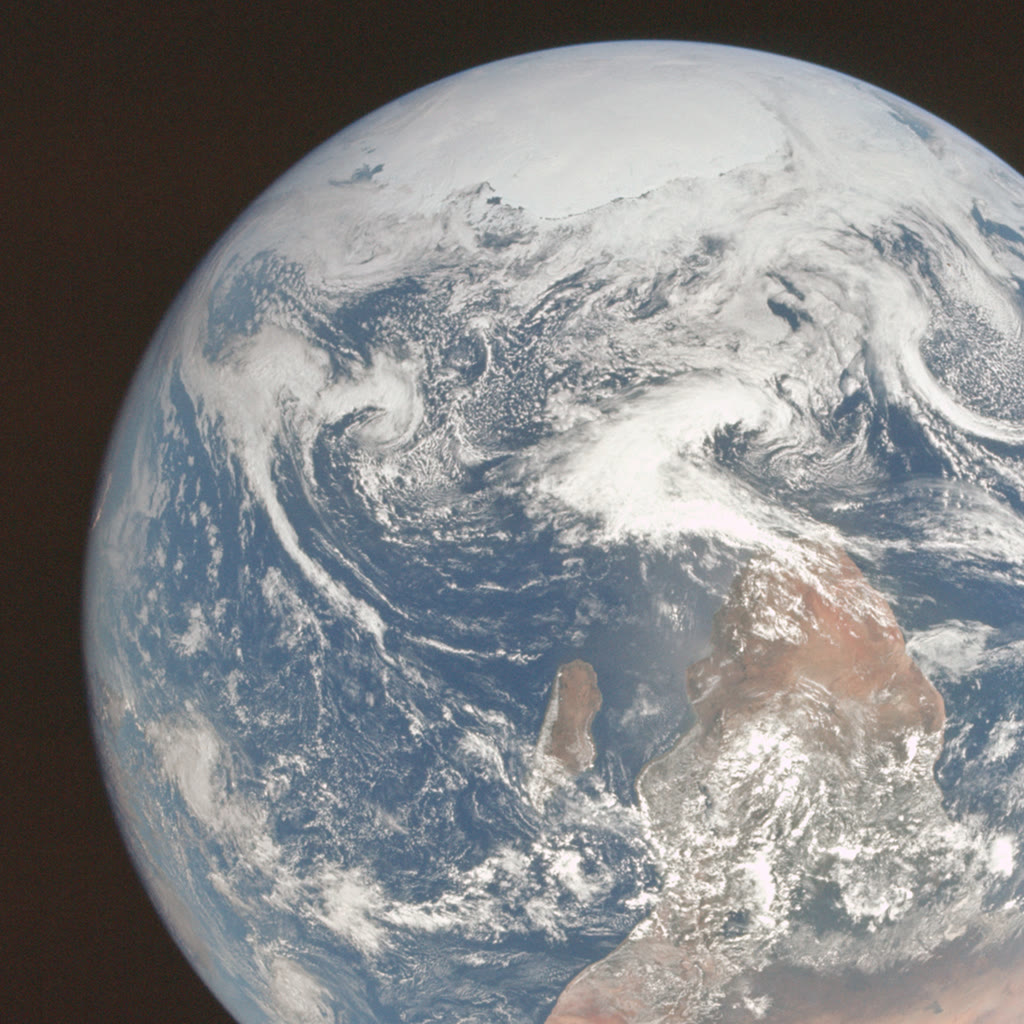
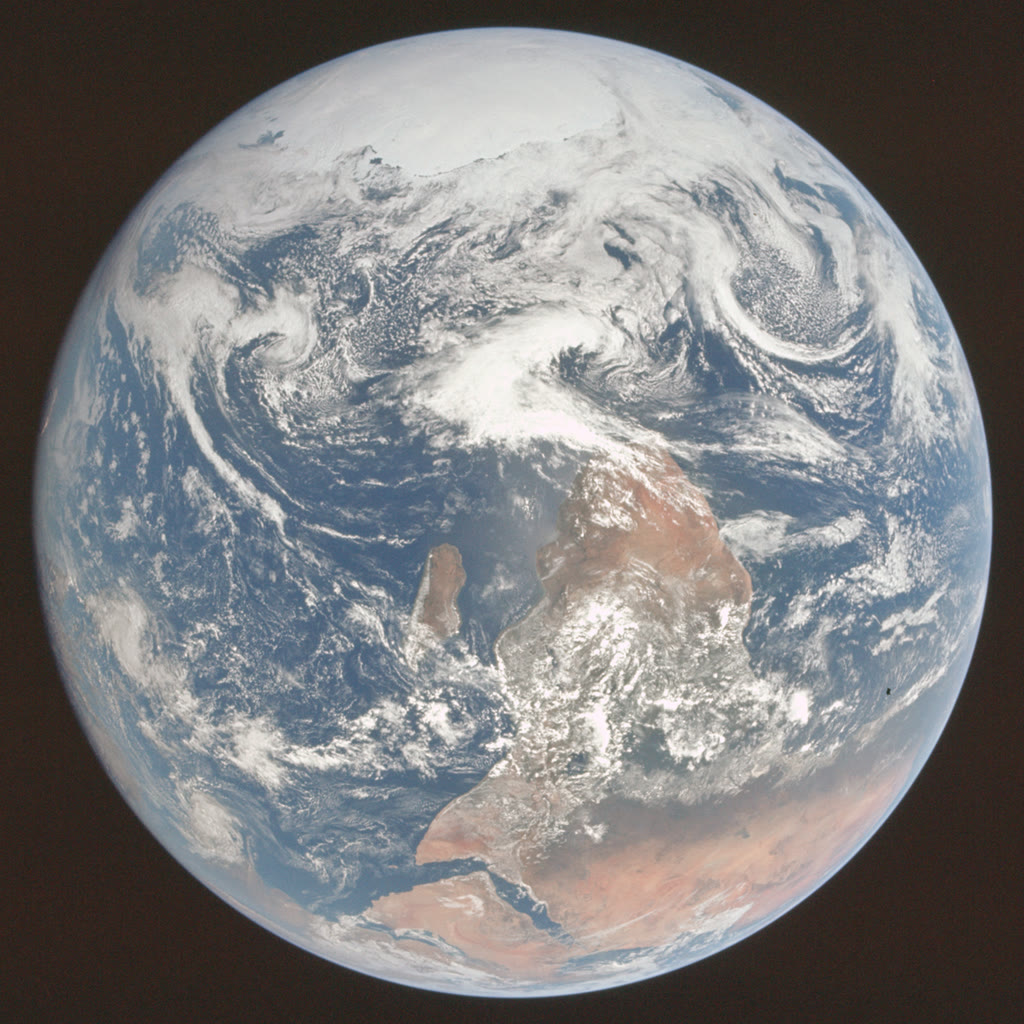
Earth surface stitched from three whole-disc photos
Apollo 17 Blue Marble plus NASA's 2002 Blue Marble composites over
the Indian and Atlantic oceans, each placed by a camera fitted to
known landmarks (orthographic, or perspective for Apollo 17), faded
at the limb and away from each photo's night side, and blended into
the procedural globe. Earth now turns by real sidereal time, so day
and night fall where they do now.

Claude-Session: https://claude.ai/code/session_01XXr1ZBxqSSzcm1NWE2wBtj

diff --git a/solar-system.html b/solar-system.html
@@ -139,7 +139,7 @@
       © NSF–DOE Vera C. Rubin Observatory/NOIRLab/SLAC/AURA. Лицензия <a href="https://creativecommons.org/licenses/by/4.0/" target="_blank" rel="noopener">CC BY 4.0</a>, <a href="https://rubinobservatory.org/gallery/media-policy" target="_blank" rel="noopener">правила использования</a>. Снимки уменьшены и затемнены; обсерватория не связана с этим проектом.</p>
     <p><b>Данные.</b> Планеты движутся по круговым орбитам по средним долготам эпохи J2000. Карликовые планеты, астероиды и кометы — по своим орбитальным элементам; у тел без даты перигелия положение на орбите примерное. Спутники Земли и аппараты у Марса показаны на настоящих высотах, наклонах и периодах, но не в реальном времени.</p>
     <p><b>Масштаб.</b> Расстояния и размеры сжаты, чтобы вся система поместилась на экран.</p>
-    <p><b>Земля.</b> Дневное полушарие — снимок «Голубой шарик» (The Blue Marble), экипаж «Аполлона-17», 7 декабря 1972 года. NASA, общественное достояние. Обратная сторона нарисована.</p>
+    <p><b>Земля.</b> Поверхность собрана из трёх снимков целого диска: «Голубой шарик» экипажа «Аполлона-17» (7 декабря 1972 года) и композиты Blue Marble 2002 года над Индийским и Атлантическим океанами (Центр космических полётов Годдарда, данные MODIS). NASA, общественное достояние. Тихий океан и участки, которых нет на снимках, нарисованы. Земля повёрнута по настоящему звёздному времени, поэтому день и ночь приходятся на те же места, что и сейчас.</p>
     <p><small>Поверхности остальных планет процедурные, нарисованы шейдером, а не взяты с фотографий.</small></p>
   </div>
 </section>
@@ -214,6 +214,8 @@
   // Rubin Observatory images (CC BY 4.0, credited on the page); procedural sky until they load
   const photos = { cluster: new Image(), spiral: new Image(), nebula: new Image(), field: new Image(), earth: new Image() };
   photos.earth.src = 'img/earth-apollo17.jpg';
+  const earthIndian = new Image(), earthAtlantic = new Image();
+  earthIndian.src = 'img/earth-bm-indian.jpg'; earthAtlantic.src = 'img/earth-bm-atlantic.jpg';
   photos.field.src = 'img/rubin-cosmos.jpg';
   photos.cluster.src = 'img/rubin-virgo-cluster.jpg';
   photos.spiral.src = 'img/rubin-virgo-spiral.jpg';
@@ -365,7 +367,7 @@
       facts: 'Диаметр 12 104 км · 0,72 а. е. · год 225 дней · сутки 243 земных, вращение обратное · спутников нет',
       note: 'Самая горячая планета: под плотными облаками около 465 °C.' },
     { id: 'earth', e: 0.0167, peri: 102.95, pole: 90, name: 'Земля', a: 1.0, L0: 100.46, n: 0.98561, r: 4.4, col: ['#d8f0ff', '#3d86ff', '#0b2a6b'],
-      rot: 0.99727, tiltAx: 23.44, p1: 0.0586, halo: '120,180,255',
+      rot: 0.99726958, spin0: 100.46, tiltAx: 23.44, p1: 0.0586, halo: '120,180,255',
       facts: 'Диаметр 12 742 км · 1 а. е. = 150 млн км · год 365,25 дня · сутки 23 ч 56 мин · наклон оси 23,4° · 1 спутник',
       note: 'Единственная известная планета с жизнью. Вокруг летают станции МКС и Тяньгун, телескопы Хаббл и Чандра, метеоспутники и тысячи спутников связи и навигации; на ночной стороне горят города.',
       moons: [{ name: 'Луна', a: 60.3, P: 27.32, L0: 218.316, size: 0.273, col: ['#ffffff', '#b8b8b8', '#3a3a3a'], inc: -18.3 }] },
@@ -532,7 +534,7 @@
       const c = p.ov || (p.ov = { cv: document.createElement('canvas'), t: -1, pr: 0, ext: 1 });
       if (t - c.t > 0.2 || Math.abs(pr - c.pr) > pr * 0.04) {
         const [wx, , wz] = planetPos(p), wl = Math.hypot(wx, wz) || 1;
-        const o = renderBodyGL(p, pr, M_ov, [-wx / wl, 0, -wz / wl], (TAU * days / p.rot) % TAU, DPR, false, t);
+        const o = renderBodyGL(p, pr, M_ov, [-wx / wl, 0, -wz / wl], (TAU * days / p.rot + (p.spin0 || 0) * DEG) % TAU, DPR, false, t);
         c.ext = o.ext;
         if (c.cv.width !== o.px) c.cv.width = c.cv.height = o.px;
         const cc = c.cv.getContext('2d');
@@ -655,7 +657,7 @@
       o.sx = sp[0]; o.sy = sp[1]; o.sr = pr;
       const [wx, , wz] = planetPos(o), wl = Math.hypot(wx, wz) || 1;
       const Lw = o.isSun ? [0, 0, 1] : [-wx / wl, 0, -wz / wl];
-      renderBodyGL(o, pr, M_ov, Lw, (TAU * days / o.rot) % TAU, DPR, false, t, { cx: sp[0] * DPR, cy: sp[1] * DPR, Rpx: pr * DPR, w: T.w, h: T.h, over: true });
+      renderBodyGL(o, pr, M_ov, Lw, (TAU * days / o.rot + (o.spin0 || 0) * DEG) % TAU, DPR, false, t, { cx: sp[0] * DPR, cy: sp[1] * DPR, Rpx: pr * DPR, w: T.w, h: T.h, over: true });
     }
     gl.disable(gl.BLEND);
     bloomAndCompose(0.5, 1.0, 1);
@@ -1164,30 +1166,53 @@
     return t;
   }
 
-  // Earth's day side comes from the Apollo 17 "Blue Marble" (NASA, public domain): the photo shows the hemisphere
-  // centred near 26° S with south at the top; it is projected back onto the sphere and faded into the procedural globe
-  const EARTH_PHOTO = { lat0: -26 * DEG, cx: 512, cy: 512, r: 482 };
-  let earthPix;   // undefined: not tried yet, null: unavailable (not loaded or a file:// tainted canvas)
-  function earthPixels() {
-    if (earthPix !== undefined) return earthPix;
-    if (!ready(photos.earth)) return null;
-    try {
-      const c = document.createElement('canvas'); c.width = c.height = 1024;
-      const g = c.getContext('2d'); g.drawImage(photos.earth, 0, 0, 1024, 1024);
-      earthPix = g.getImageData(0, 0, 1024, 1024).data;
-    } catch (e) { earthPix = null; }
-    return earthPix;
+  // Earth's surface comes from three whole-disc photos placed by fitting their cameras to known landmarks:
+  // Apollo 17 "Blue Marble" (1972, perspective from ~19 Earth radii, south up) and NASA's 2002 Blue Marble
+  // composites over the Indian and Atlantic oceans (orthographic). All NASA, public domain. lat0/lon0: disc
+  // centre; rho: image roll; D: camera distance in Earth radii; east: fade out past this x (night or dusk side).
+  const EARTH_PHOTOS = [
+    { im: photos.earth, n: 1024, cx: 512, cy: 512, r: 482.6, lat0: -30.14, lon0: 33.76, rho: 170.79, D: 18.87, east: 2 },
+    { im: earthIndian, n: 672, cx: 336, cy: 336, r: 330, lat0: -9.95, lon0: 101.09, rho: 1.1, D: Infinity, east: 0.6 },
+    { im: earthAtlantic, n: 672, cx: 336, cy: 336, r: 330, lat0: 37.78, lon0: -40.04, rho: -2.28, D: Infinity, east: 0.35 },
+  ];
+  for (const q of EARTH_PHOTOS) {   // camera basis: centre c, image right a, image up b
+    const p0 = q.lat0 * DEG, l0 = q.lon0 * DEG, ro = q.rho * DEG;
+    const e = [-Math.sin(l0), 0, -Math.cos(l0)], nn = [-Math.sin(p0) * Math.cos(l0), Math.cos(p0), Math.sin(p0) * Math.sin(l0)];
+    q.c = [Math.cos(p0) * Math.cos(l0), Math.sin(p0), -Math.cos(p0) * Math.sin(l0)];
+    q.a = e.map((v, i) => Math.cos(ro) * v + Math.sin(ro) * nn[i]);
+    q.b = e.map((v, i) => -Math.sin(ro) * v + Math.cos(ro) * nn[i]);
+    q.f = isFinite(q.D) ? q.r * Math.sqrt(q.D * q.D - 1) : q.r;
   }
-  function earthPhotoAt(x, y, z) {   // -> [r, g, b, weight] or null
-    const P = earthPixels(); if (!P) return null;
-    const s0 = Math.sin(EARTH_PHOTO.lat0), c0 = Math.cos(EARTH_PHOTO.lat0);
-    const cosc = x * c0 + y * s0;            // centre direction (c0, s0, 0)
-    if (cosc < 0.08) return null;
-    const u = -z, v = -x * s0 + y * c0;      // east and north on the disc (the globe spins toward -z, so east is -z)
-    const px = Math.round(EARTH_PHOTO.cx - u * EARTH_PHOTO.r), py = Math.round(EARTH_PHOTO.cy + v * EARTH_PHOTO.r);   // south is up
-    if (px < 0 || py < 0 || px > 1023 || py > 1023) return null;
-    const k = (py * 1024 + px) * 4;
-    return [P[k], P[k + 1], P[k + 2], smooth(clamp((cosc - 0.12) / 0.25, 0, 1))];
+  function photoPixels(q) {   // undefined: not tried, null: unavailable (not loaded, or a tainted file:// canvas)
+    if (q.pix !== undefined) return q.pix;
+    if (!ready(q.im)) return null;
+    try {
+      const c = document.createElement('canvas'); c.width = c.height = q.n;
+      const g = c.getContext('2d'); g.drawImage(q.im, 0, 0, q.n, q.n);
+      q.pix = g.getImageData(0, 0, q.n, q.n).data;
+    } catch (e) { q.pix = null; }
+    return q.pix;
+  }
+  const dot3 = (u, v) => u[0] * v[0] + u[1] * v[1] + u[2] * v[2];
+  // texture point (x, y, z) on the unit sphere (x, z equatorial; geographic longitude = -atan2(z, x)) -> [r, g, b, weight] or null
+  function earthPhotoAt(x, y, z) {
+    const pt = [x, y, z];
+    let R = 0, G = 0, B = 0, Wt = 0, Wmax = 0;
+    for (const q of EARTH_PHOTOS) {
+      const P = photoPixels(q); if (!P) continue;
+      const w = dot3(pt, q.c), lim = isFinite(q.D) ? 1 / q.D : 0;
+      if (w < lim + 0.08) continue;
+      const k = isFinite(q.D) ? q.D - w : 1, u = dot3(pt, q.a) / k, v = dot3(pt, q.b) / k;
+      const px = Math.round(q.cx + q.f * u), py = Math.round(q.cy - q.f * v);
+      if (px < 0 || py < 0 || px >= q.n || py >= q.n) continue;
+      const xn = (px - q.cx) / q.r;
+      // fade toward the limb (haze, foreshortening) and away from the photo's own night side
+      const wt = smooth(clamp((w - lim - 0.1) / 0.3, 0, 1)) * (1 - smooth(clamp((xn - q.east) / 0.25, 0, 1)));
+      if (wt <= 0) continue;
+      const i = (py * q.n + px) * 4;
+      R += P[i] * wt; G += P[i + 1] * wt; B += P[i + 2] * wt; Wt += wt; Wmax = Math.max(Wmax, wt);
+    }
+    return Wt > 0 ? [R / Wt, G / Wt, B / Wt, Wmax] : null;
   }
 
   // surface (+ city lights in alpha) and cloud maps, generated a few rows at a time so the page never stalls
@@ -1198,7 +1223,7 @@
     return {
       step(deadline) {
         // the high-resolution Earth waits briefly for its photo to load
-        if (cloud && row === 0 && w > 128 && !ready(photos.earth) && performance.now() - t0 < 5000) return false;
+        if (cloud && row === 0 && w > 128 && !EARTH_PHOTOS.every(q => ready(q.im)) && performance.now() - t0 < 6000) return false;
         while (row < h) {
           const lat = (0.5 - (row + 0.5) / h) * Math.PI, cl = Math.cos(lat), y = Math.sin(lat);
           for (let i = 0; i < w; i++) {
@@ -1807,7 +1832,7 @@
     const R = closeR * cZoom;
     const Mc = closeCam();
     const T = tiltM(b);
-    const spin = (TAU * days / b.rot) % TAU;
+    const spin = (TAU * days / b.rot + (b.spin0 || 0) * DEG) % TAU;
     // sunlight in world and in body coordinates
     const [wx, , wz] = planetPos(b);
     const wl = Math.hypot(wx, wz) || 1;

diff --git a/android/store/NOTICES.md b/android/store/NOTICES.md
@@ -31,3 +31,4 @@ OFL: https://openfontlicense.org — шрифты встроены в прило
 
 ## Earth photograph
 - "The Blue Marble", Apollo 17 crew, 7 December 1972 (AS17-148-22727). NASA, public domain. Used as Earth's day-side texture.
+- "Blue Marble" 2002 composites over the Indian and Atlantic oceans (NASA Goddard Space Flight Center, MODIS data). NASA, public domain. Used for Earth's surface.
